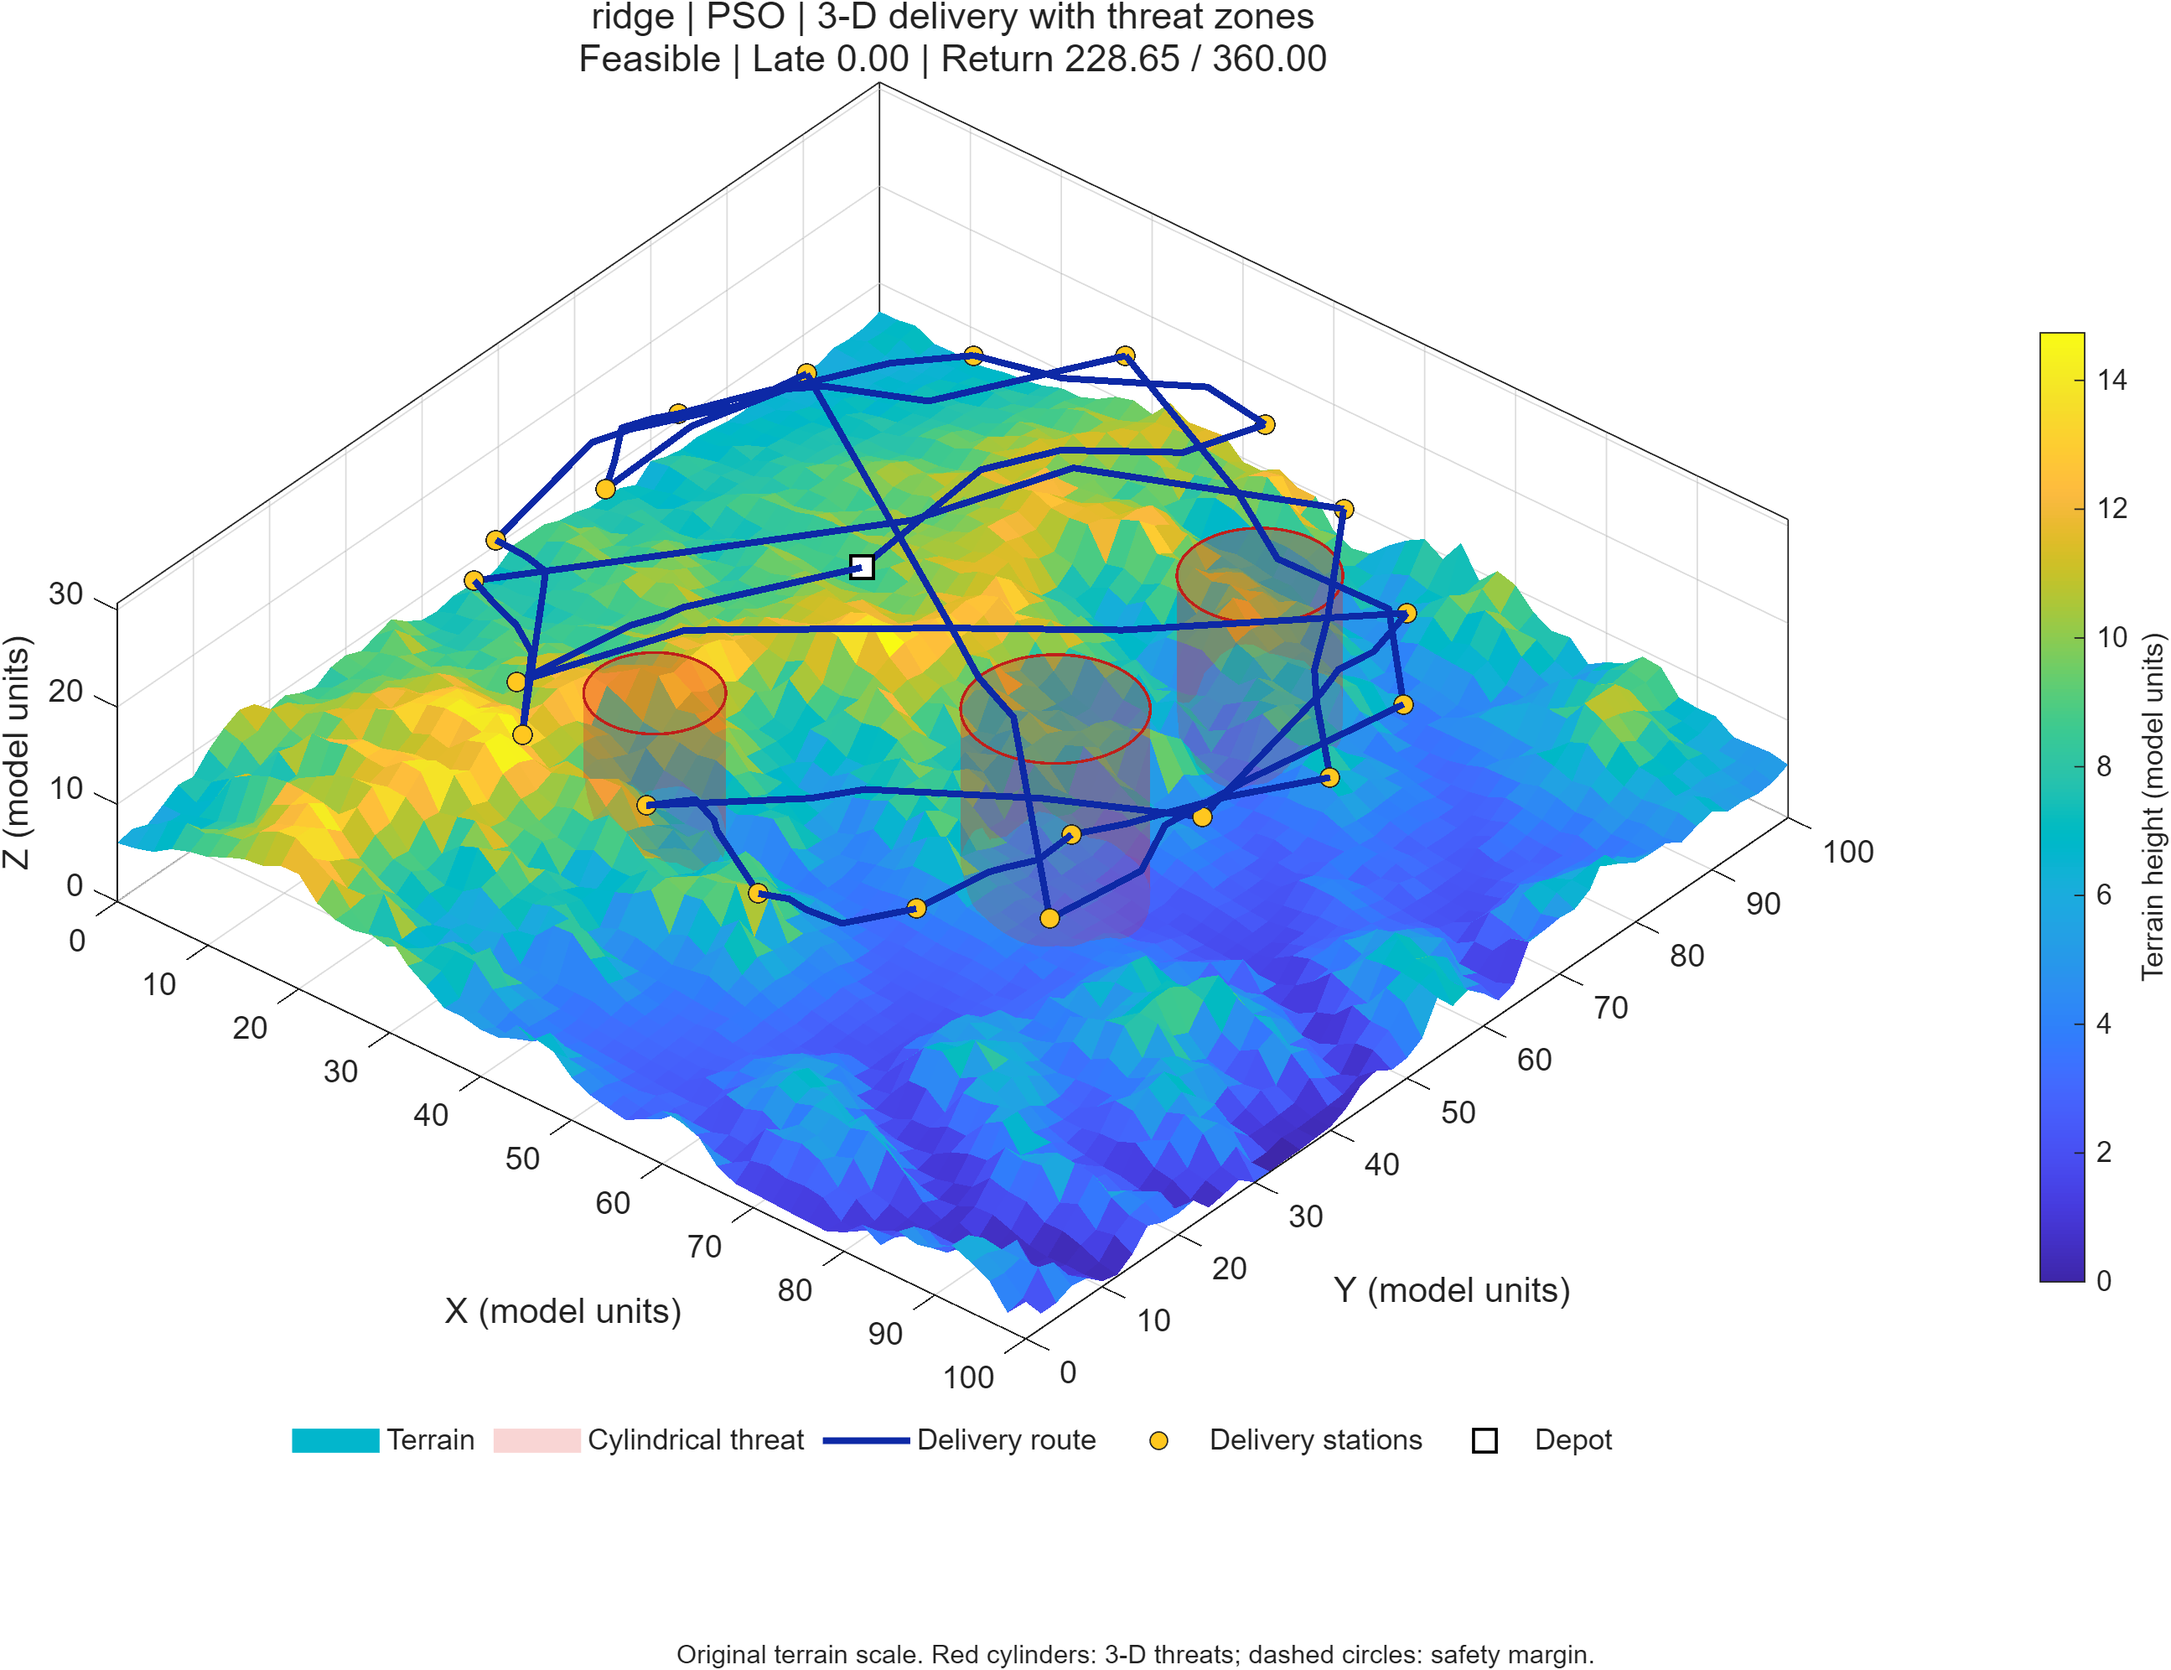
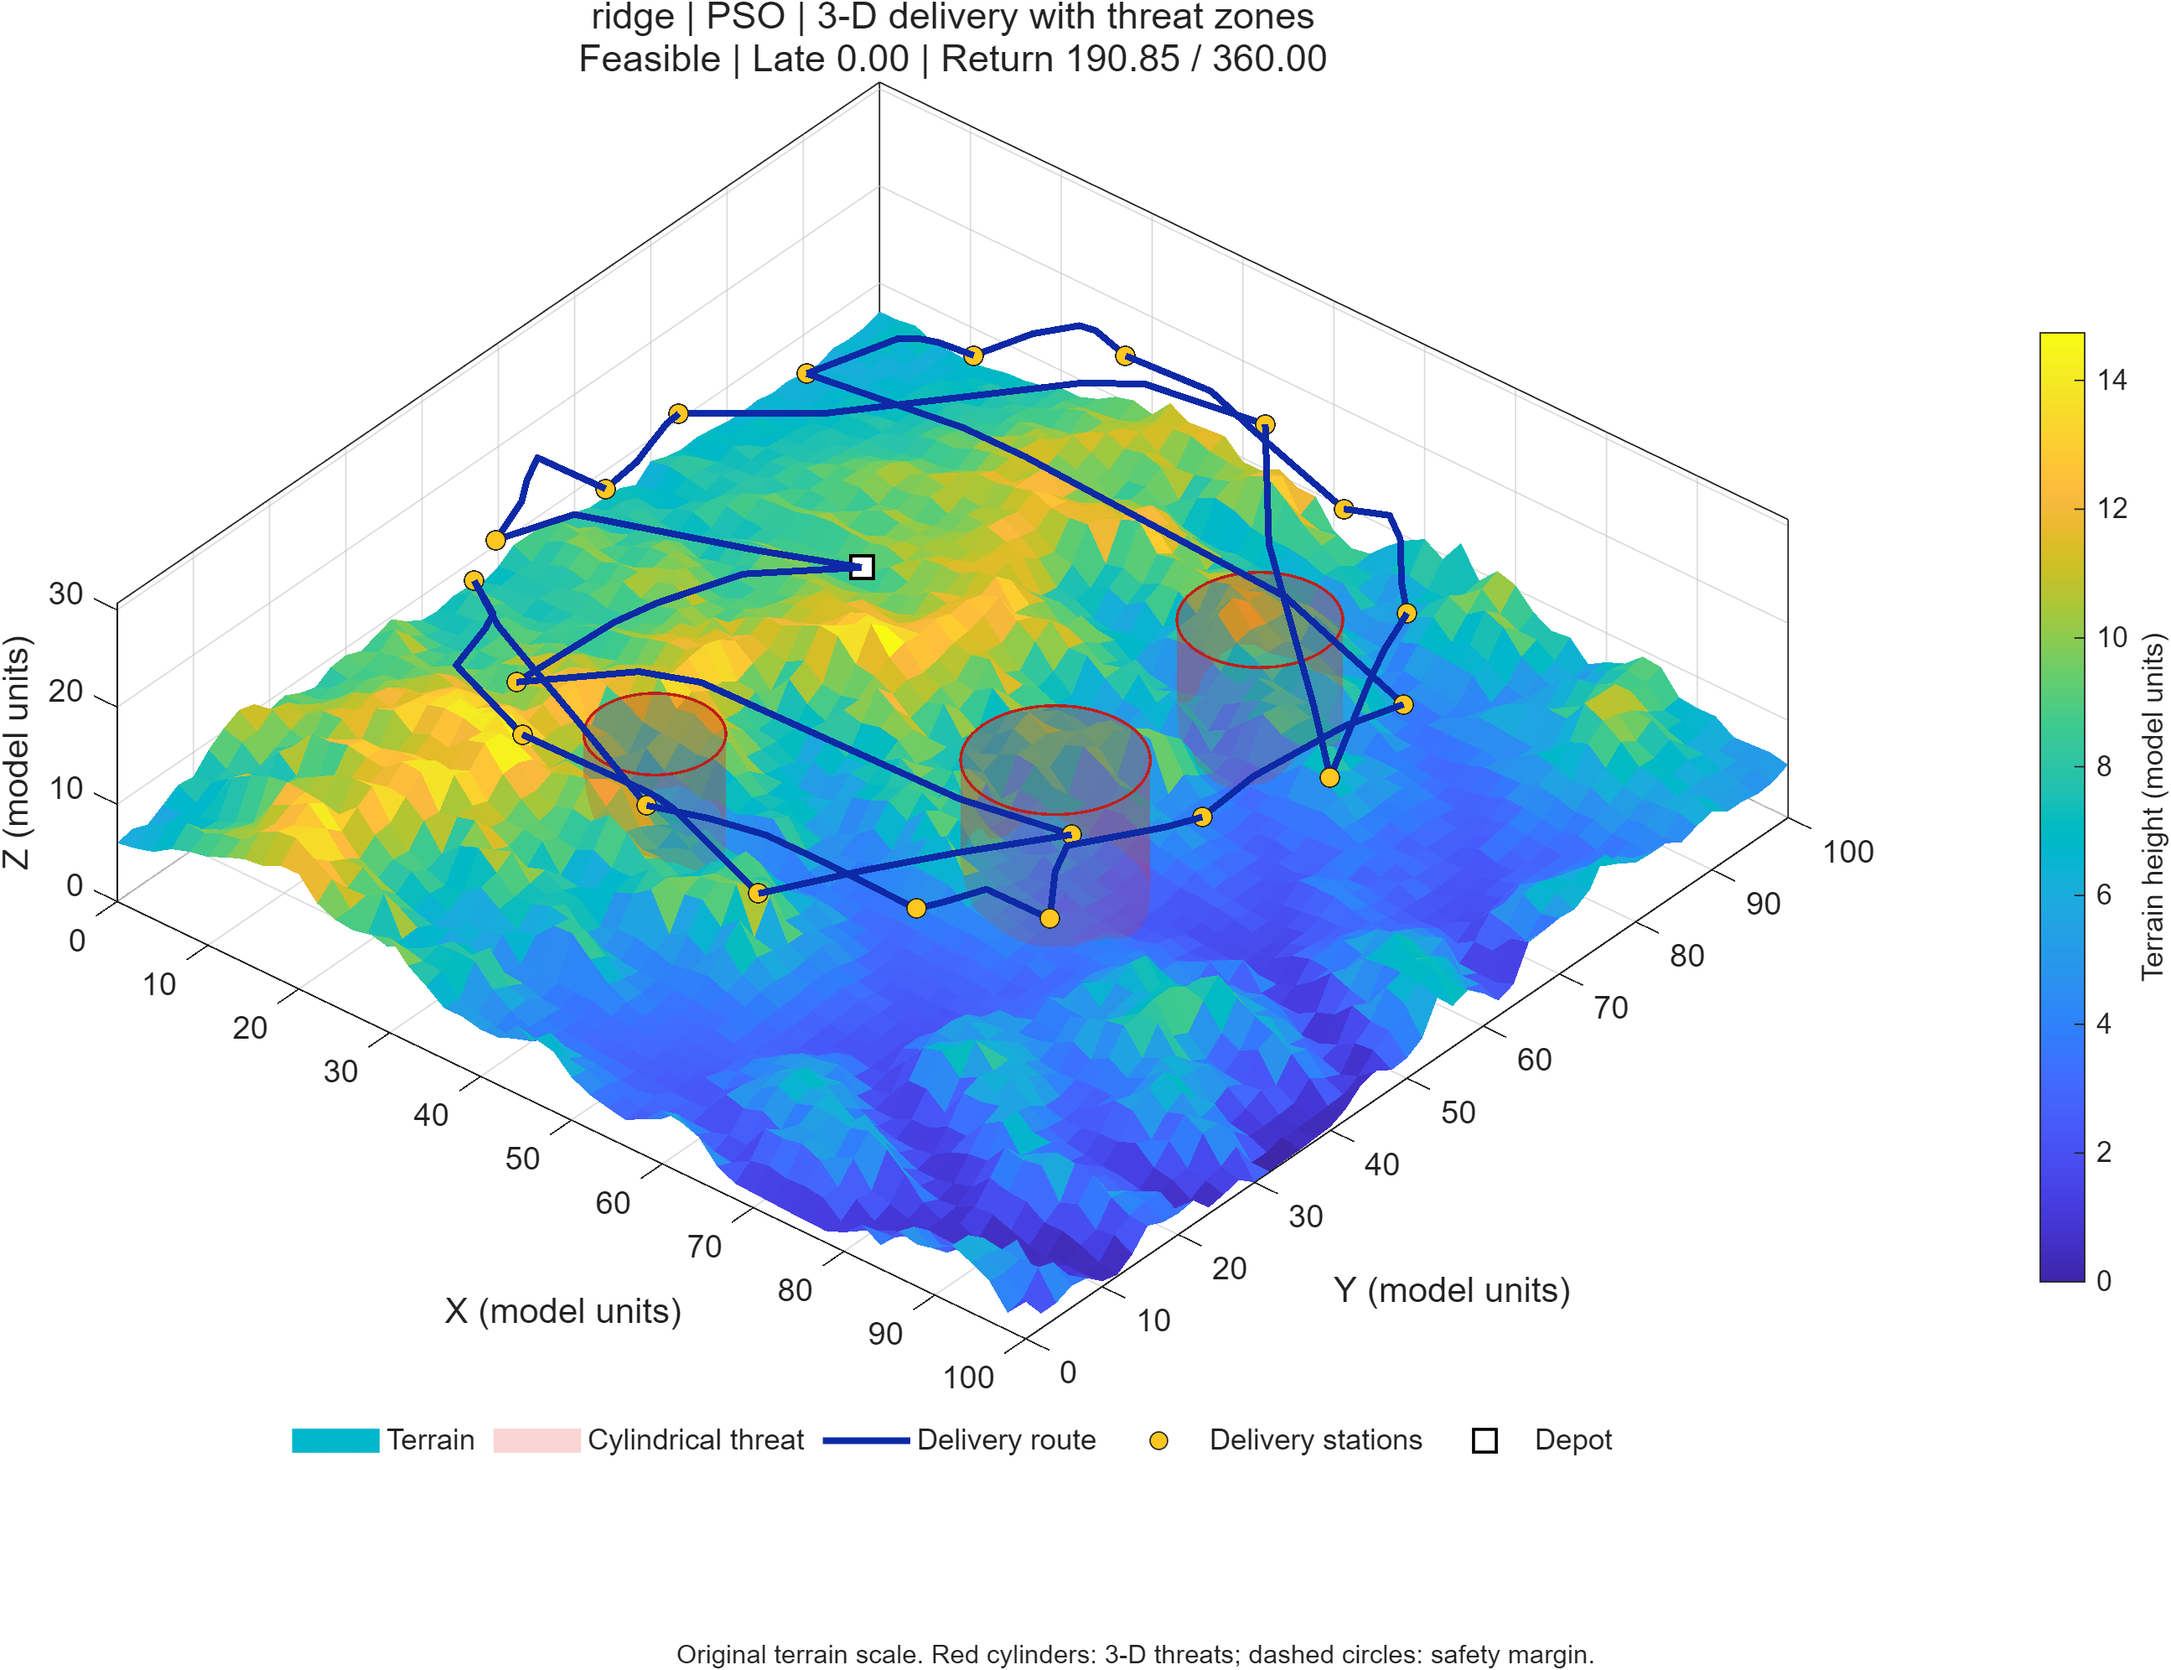
Freeze benchmark protocol and plotting scale

Changed region(s): [[0.2162, 0.1867, 0.6486, 0.5602], [0.4942, 0.0311, 0.5251, 0.0622]]

diff --git a/main.m b/main.m
@@ -9,8 +9,8 @@ root = fileparts(mfilename('fullpath'));
 algorithms = {'PSO','CSO','CLPSO','GWO','SCSO'};
 population = 60;
 if developmentMode
-    maxEvaluations = 10000;
-    repeatIDs = 1:2;
+    maxEvaluations = 30000;
+    repeatIDs = 1:3;
 else
     maxEvaluations = 30000;
     repeatIDs = 101:130;
@@ -125,7 +125,7 @@ if ~runComparison
     fprintf('First feasible FE:   %.0f\n',info.FirstFeasibleEvaluation);
 else
     stamp=char(datetime('now','Format','yyyyMMdd_HHmmss_SSS'));
-    out=fullfile(root,'results','experiments',['benchmark_v6_candidate_' stamp]);
+    out=fullfile(root,'results','experiments',['benchmark_v1_' stamp]);
     mkdir(out);
     mkdir(fullfile(out,'source'));copyfile(fullfile(root,'*.m'),fullfile(out,'source'));
     copyfile(fullfile(root,'data'),fullfile(out,'input'));
@@ -134,7 +134,7 @@ else
     else
         mode='formal';
     end
-    manifest=struct('Status','running','Version','benchmark-candidate-v6','Mode',mode, ...
+    manifest=struct('Status','running','Version','benchmark-v1','Mode',mode, ...
         'Algorithms',{algorithms}, ...
         'Population',population,'Evaluations',maxEvaluations,'Runs',runs,'RepeatIDs',repeatIDs, ...
         'SeedBase',seedBase,'ControlPoints',cfg.nControlPoints, ...

diff --git a/PlotSolution.m b/PlotSolution.m
@@ -23,14 +23,13 @@ function PlotSolution(BestSol,model,state,filePath)
         clim(ax,[0 max(model.terrainZ(:))]);
         cb = colorbar(ax,'Position',[0.86 0.24 0.017 0.53]);
         cb.Label.String = 'Terrain height (model units)';
-        %% 三维圆柱威胁区：侧面、顶面和边界，地形保持原样
-        displayHeightScale=1.35;
+        %% 三维圆柱威胁区：使用模型中的真实高度
         for i=1:numel(model.obstacles)
             obs=model.obstacles(i);
             [X,Y,Z]=cylinder(obs.r,64);
             X=X+obs.x;
             Y=Y+obs.y;
-            displayTop=obs.zMin+displayHeightScale*(obs.zMax-obs.zMin);
+            displayTop=obs.zMax;
             Z=obs.zMin+Z*(displayTop-obs.zMin);
             h=surf(ax,X,Y,Z,'FaceColor',[0.88 0.18 0.16], ...
                 'FaceAlpha',0.20,'EdgeColor','none','FaceLighting','none');

diff --git a/README_CN.md b/README_CN.md
@@ -2,7 +2,7 @@
 
 ## 当前候选协议
 
-当前主程序使用 `benchmark-candidate-v6`。应用固定为 20 个配送站、每段 3 个中间控制点，并提供五张不同地形和不同航点数据的地图。这个版本已经完成候选场景的独立可行性检查，但正式论文实验仍要先用开发 seed 做资源和参数冻结，不能把开发结果当作算法优越性结论。
+当前主程序使用 `benchmark-v1`。应用固定为 20 个配送站、每段 3 个中间控制点，并提供五个异质配送场景。五个场景同时改变地形、站点坐标和预约时间窗，适合检验算法在不同综合环境中的稳定性。正式论文实验仍要先用开发 seed 做参数冻结，不能把开发结果当作算法优越性结论。
 
 五张地图分别是 `ridge`、`peaks`、`mountain`、`hills` 和 `plateau`。它们使用不同的地形文件，也使用不同的站点坐标和预约中心，数据位于 `data/map_scenarios_v6/`。站点保持在整个 100×100 区域内分散分布，避免把所有订单挤在地图中心。
 
@@ -17,15 +17,15 @@ main
 
 - `runComparison=false`：运行一张地图的 PSO 单图演示。
 - `runComparison=true`：运行五张地图和当前算法列表的配对比较。
-- `developmentMode=true`：使用重复编号 `1:2` 和 10000 次 Fitness 评价做开发筛选。
+- `developmentMode=true`：使用重复编号 `1:3` 和 30000 次 Fitness 评价做开发筛选。
 - `developmentMode=false`：切换到正式重复编号 `101:130` 和 30000 次 Fitness 评价。
-- 两种模式都固定使用 60 个粒子；切换模式不会改变地图、站点或时间窗。
+- 两种模式都固定使用 60 个粒子和 30000 次 Fitness 评价，只切换 seed；地图、站点和时间窗不变。
 
 多场景比较输出写入 `results/experiments/benchmark_v6_candidate_*`，并保存原始运行、汇总、代码和输入快照。诊断材料统一放在 `results/diagnostics/`。
 
 ## 场景与模型
 
-每张地图读取一份冻结的 N20 CSV。20 个订单按固定空间参考路线分成 5 个时间带，每带 4 个订单；带内允许多种访问顺序，带间仍保留时间先后约束。预约中心和窗口宽度预先写入 CSV，五张地图使用小幅不同的中心偏移和宽度。窗口宽度约为 140--172 个时间单位，保留明显的等待和迟到约束，不通过算法结果反向修改实例。
+每个场景读取一份冻结的 N20 CSV。20 个订单按固定空间参考路线分成 5 个时间带，每带 4 个订单；带内允许多种访问顺序，带间仍保留时间先后约束。预约中心和窗口宽度预先写入 CSV，五个场景使用不同的中心偏移和宽度。窗口宽度约为 140--172 个时间单位，保留明显的等待和迟到约束，不通过算法结果反向修改实例。
 
 每航段使用三个中间控制点，控制变量为 lambda、横向偏移和高度偏移，搜索维度为：
 
@@ -56,7 +56,7 @@ depotWindow     = [0, 360]
 - 同一地图和重复编号下，所有算法读取同一个随机初始种群。
 - 所有算法使用相同的粒子数和 Fitness 评价预算；初始化评价计入预算，搜索结束后的复算单独记录。
 - 先比较可行率和首次可行评价次数；距离、目标值、等待和平滑度只在可行运行中比较。
-- 开发阶段使用 seed `1:2` 检查场景和资源；算法自己的参数只能在开发阶段调整。
+- 开发阶段使用 seed `1:3` 检查场景和资源；算法自己的参数只能在开发阶段调整。开发和正式阶段使用相同的粒子数和 Fitness 预算。
 - 正式测试使用全新的 seed `101:130`，冻结场景、速度、粒子数、评价次数和算法参数后不再修改。
 - 当前主比较只纳入群智能算法：PSO、CSO、CLPSO、GWO 和 SCSO，后续接入提出的新群智能算法。
 
@@ -78,8 +78,8 @@ CreateModel.m                  地形、订单和威胁区
 Fitness.m                      解码、排程、约束和目标评价
 PlotSolution.m                 路线、时间窗及比较图
 PSO.m / CSO.m / CLPSO.m / GWO.m / SCSO.m
-data/map_scenarios_v6/         五张地图各自的 N20 站点与时间窗
-work/TestV6Witness.m           候选场景的独立参考路线检查
+data/map_scenarios_v6/         五个场景各自的 N20 站点与时间窗
+results/diagnostics/v6_witness.csv       五个场景的独立参考路线检查
 ```
 
 
